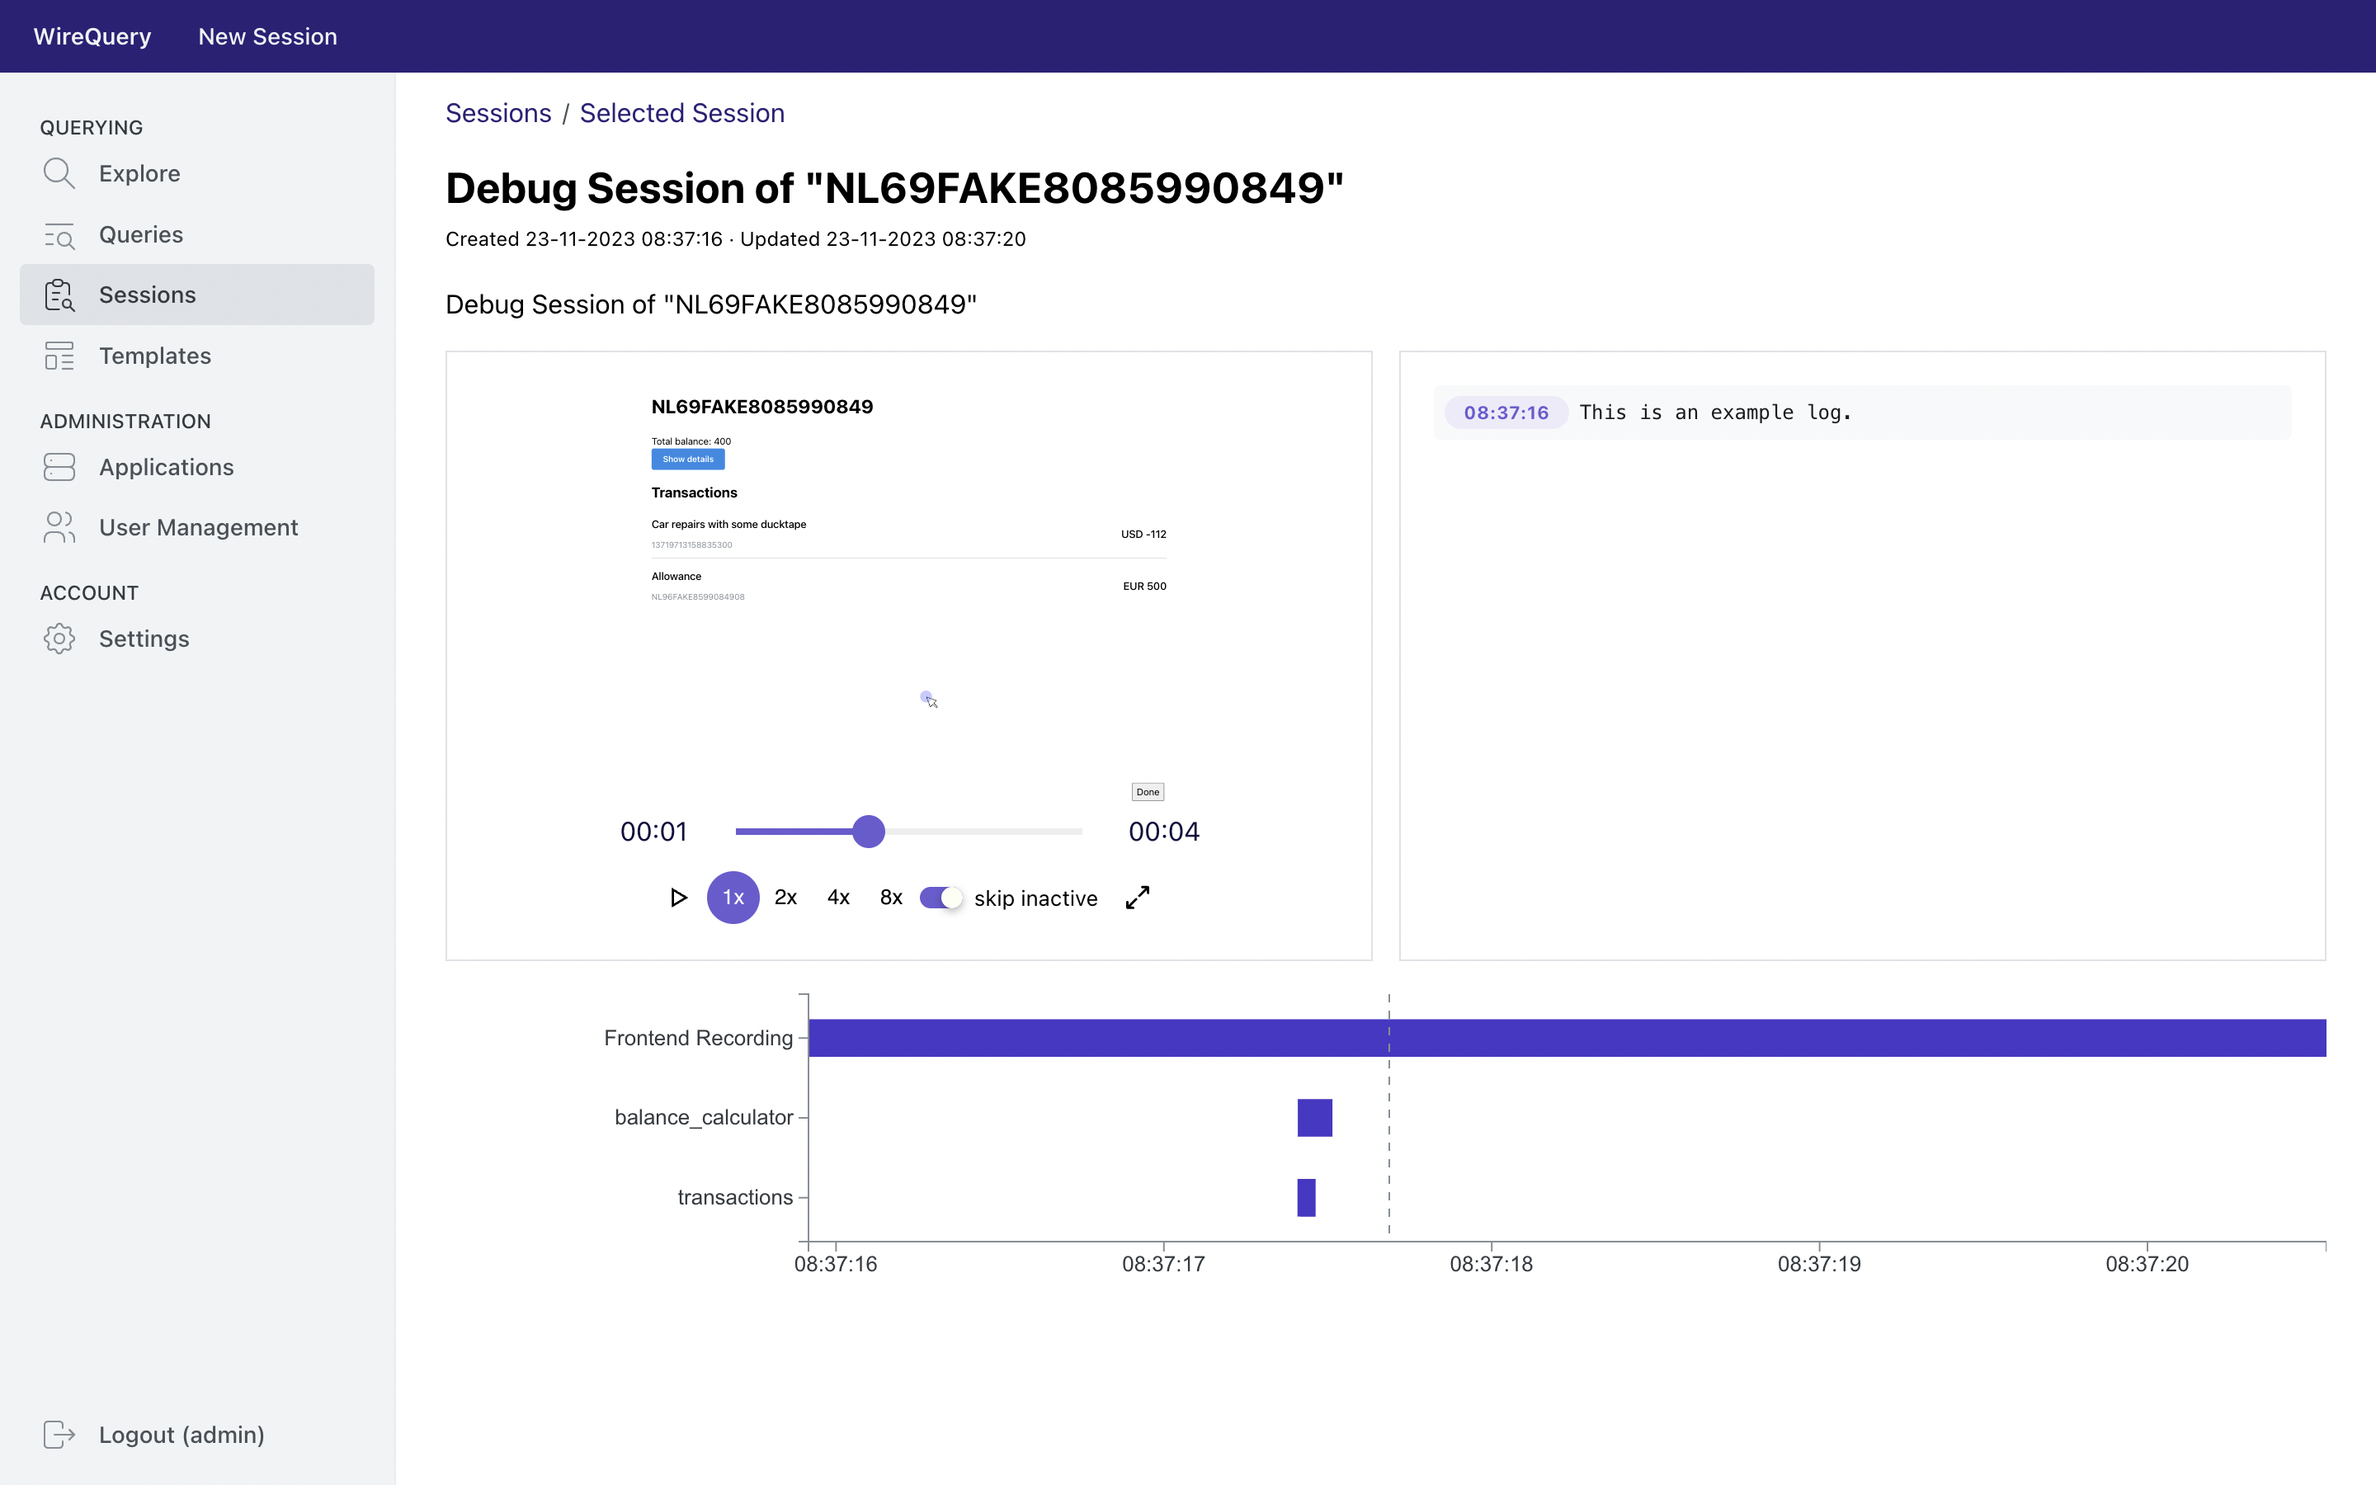
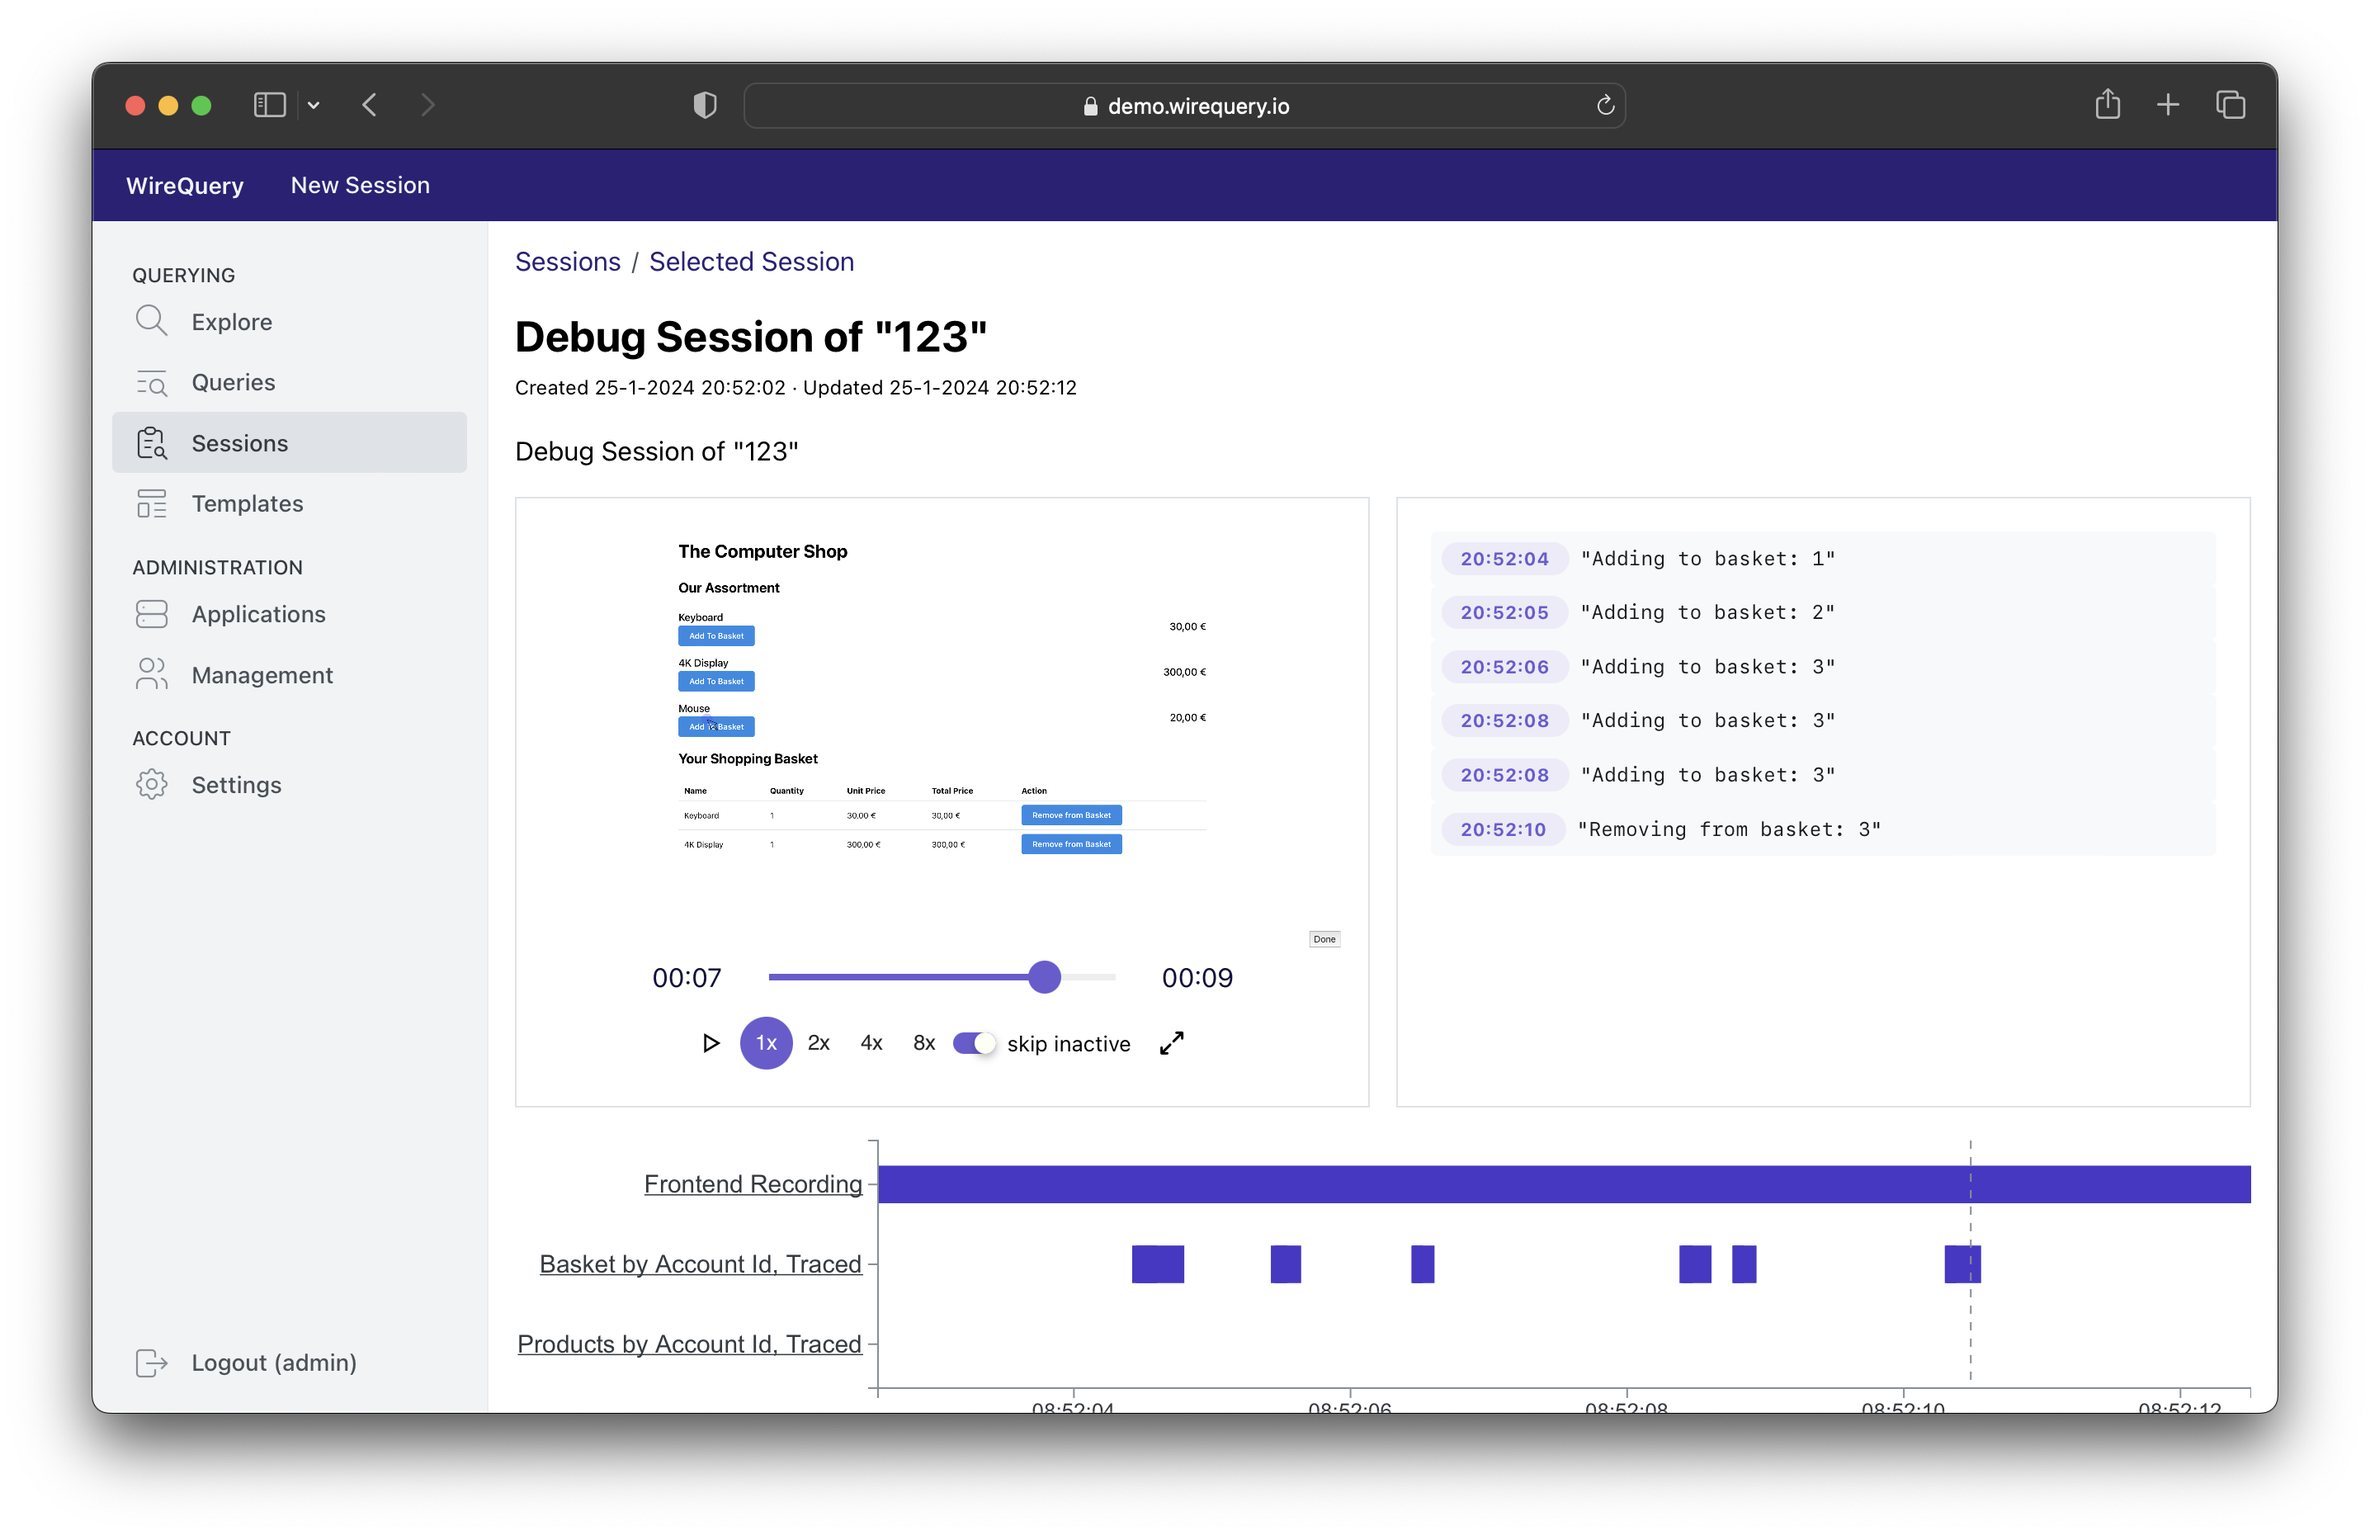
Add screenshots. Fix recording.
GitOrigin-RevId: f409f1d2e0f0d0072b403d7590d21eba68e37266

diff --git a/sdk/js/examples/shop/src/components/Recorder.tsx b/sdk/js/examples/shop/src/components/Recorder.tsx
@@ -5,48 +5,35 @@
 //
 // SPDX-License-Identifier: MIT
 
-import { Affix, Loader, Modal, rem } from "@mantine/core";
+import { Affix, rem } from "@mantine/core";
 import { useState } from "react";
-import { record, getRecordConsolePlugin } from "rrweb";
-import { useSWRConfig } from "swr";
+import { getRecordConsolePlugin, record } from "rrweb";
 
 const events: any = [];
-const wireQueryBackendPath = 'http://localhost:8080';
+const wireQueryBackendPath = 'https://demo.wirequery.io';
 
 export const Recorder = () => {
-  const [isRecordingModalOpen, setIsRecordingModalOpen] = useState(false);
-  const { mutate } = useSWRConfig()
-
-  const clearCache = () => mutate(() => true, undefined, { revalidate: true })
-
   const [recording, setRecording] = useState<any | undefined>(undefined);
 
   const start = () => {
-    setIsRecordingModalOpen(true)
     const destructor = startRecording();
     return () => destructor?.();
   };
 
   const startRecording = () => {
-    fetch("http://localhost:8080/api/v1/recordings", {
+    fetch(`${wireQueryBackendPath}/api/v1/recordings`, {
       method: "POST",
       headers: {
         "Content-Type": "application/json",
       },
       body: JSON.stringify({
-        templateId: 1, // Debug Session by Account Id
+        templateId: 3, // Debug Session by Account Id
         args: {
           accountId: "123",
         },
       }),
     }).then((res) => res.json().then((json) => {
       setRecording(json);
-
-      // Refresh all calls once, so that they will be intercepted by WireQuery.
-      setTimeout(() => {
-        clearCache()
-        setIsRecordingModalOpen(false)
-      }, 1000)
     }));
     return record({
       emit: (event) => {
@@ -74,22 +61,10 @@ export const Recorder = () => {
   };
 
   return (
-    <>
-      <Affix position={{ bottom: 0, right: rem(20) }}>
-        {recording
-          ? <button onClick={send}>Done</button>
-          : <button onClick={start}>Start Recording</button>}
-      </Affix>
-      <Modal
-        title="Initializing Recording..."
-        onClose={() => { }}
-        opened={isRecordingModalOpen}
-        closeButtonProps={{ display: 'none' }}
-        closeOnClickOutside={false}
-        closeOnEscape={false}
-      >
-        <Loader color="blue" />
-      </Modal>
-    </>
+    <Affix position={{ bottom: 0, right: rem(20) }}>
+      {recording
+        ? <button onClick={send}>Done</button>
+        : <button onClick={start}>Start Recording</button>}
+    </Affix>
   );
 };

diff --git a/sdk/js/examples/shop/src/components/Basket.tsx b/sdk/js/examples/shop/src/components/Basket.tsx
@@ -20,7 +20,8 @@ export const Basket = () => {
   const { data: entries } = useSWR<BasketEntry[]>('/basket-entries');
   const { mutate } = useSWRConfig()
 
-  const removeFromCart = (productId: string) => {
+  const removeFromBasket = (productId: string) => {
+    console.log('Removing from basket: ' + productId)
     fetch(`/basket-entries/${productId}`, {
       method: "DELETE",
       headers: { accountId: "123" },
@@ -49,7 +50,7 @@ export const Basket = () => {
           <Table.Td>{Intl.NumberFormat("de-DE", { style: "currency", currency: "EUR" }).format(entry.unitPrice / 100)}</Table.Td>
           <Table.Td>{Intl.NumberFormat("de-DE", { style: "currency", currency: "EUR" }).format(entry.totalPrice / 100)}</Table.Td>
           <Table.Td>
-            <Button onClick={() => removeFromCart(entry.id)}>Remove from Cart</Button>
+            <Button onClick={() => removeFromBasket(entry.id)}>Remove from Basket</Button>
           </Table.Td>
         </Table.Tr>
       ))}

diff --git a/sdk/js/examples/shop/src/components/Products.tsx b/sdk/js/examples/shop/src/components/Products.tsx
@@ -14,12 +14,12 @@ interface Product {
   price: number,
 }
 
-
 export const Products = () => {
-  const { data: products } = useSWR<Product[]>("/products");
+  const { data: products } = useSWR<Product[]>('/products');
   const { mutate } = useSWRConfig()
 
-  const addToCart = (productId: string) => {
+  const addToBasket = (productId: string) => {
+    console.log('Adding to basket: ' + productId)
     fetch(`/basket-entries/${productId}`, {
       method: "POST",
       headers: { 'Content-Type': 'application/json', accountId: "123" },
@@ -42,7 +42,7 @@ export const Products = () => {
             }).format(product.price / 100)}</Text>
           </div>
           <Text fw={500} size="lg" mt="md">{product.name}</Text>
-          <Button onClick={() => addToCart(product.id)}>Add To Cart</Button>
+          <Button onClick={() => addToBasket(product.id)}>Add To Basket</Button>
         </div>
       ))}</>
   );

diff --git a/sdk/jvm/examples/spring-boot/basket/src/test/kotlin/com/basket/BasketApplicationTests.kt b/sdk/jvm/examples/spring-boot/basket/src/test/kotlin/com/basket/BasketApplicationTests.kt
@@ -11,7 +11,7 @@ import org.junit.jupiter.api.Test
 import org.springframework.boot.test.context.SpringBootTest
 
 @SpringBootTest
-class EntryCalculatorApplicationTests {
+class BasketApplicationTests {
 
 	@Test
 	fun contextLoads() {
